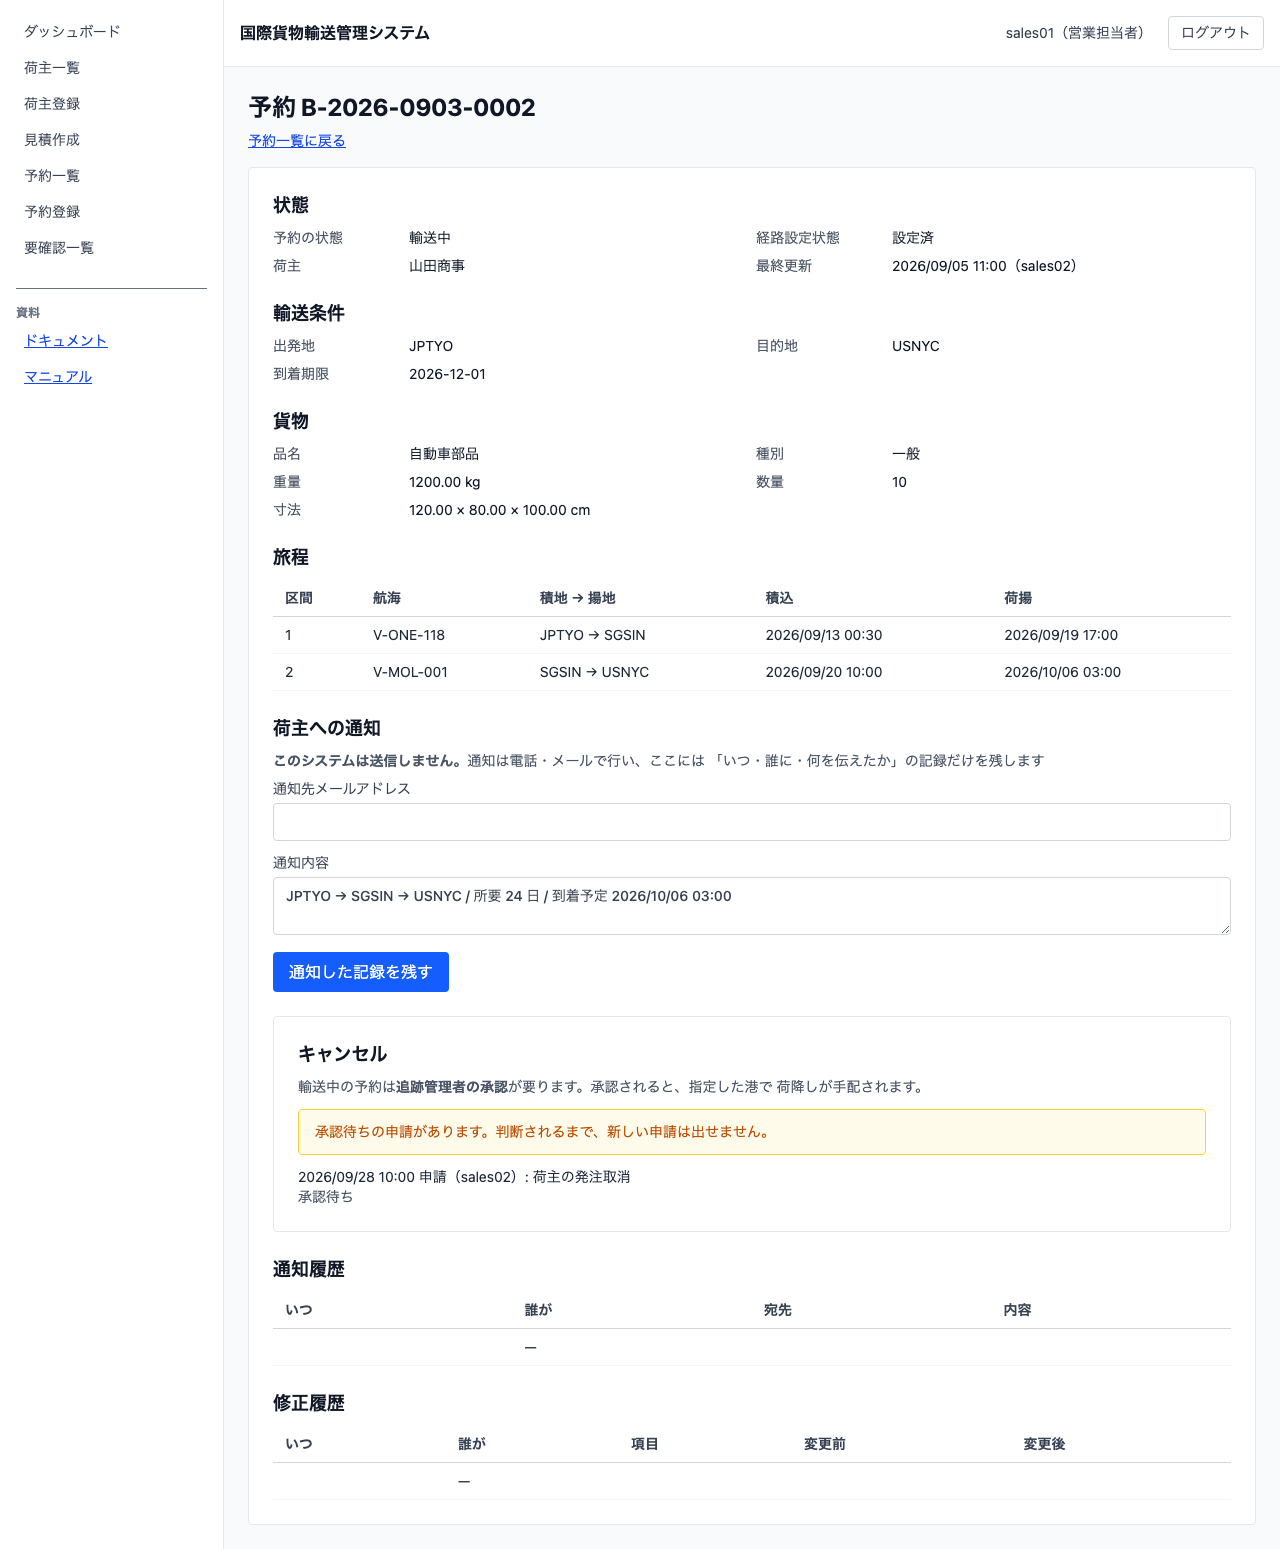
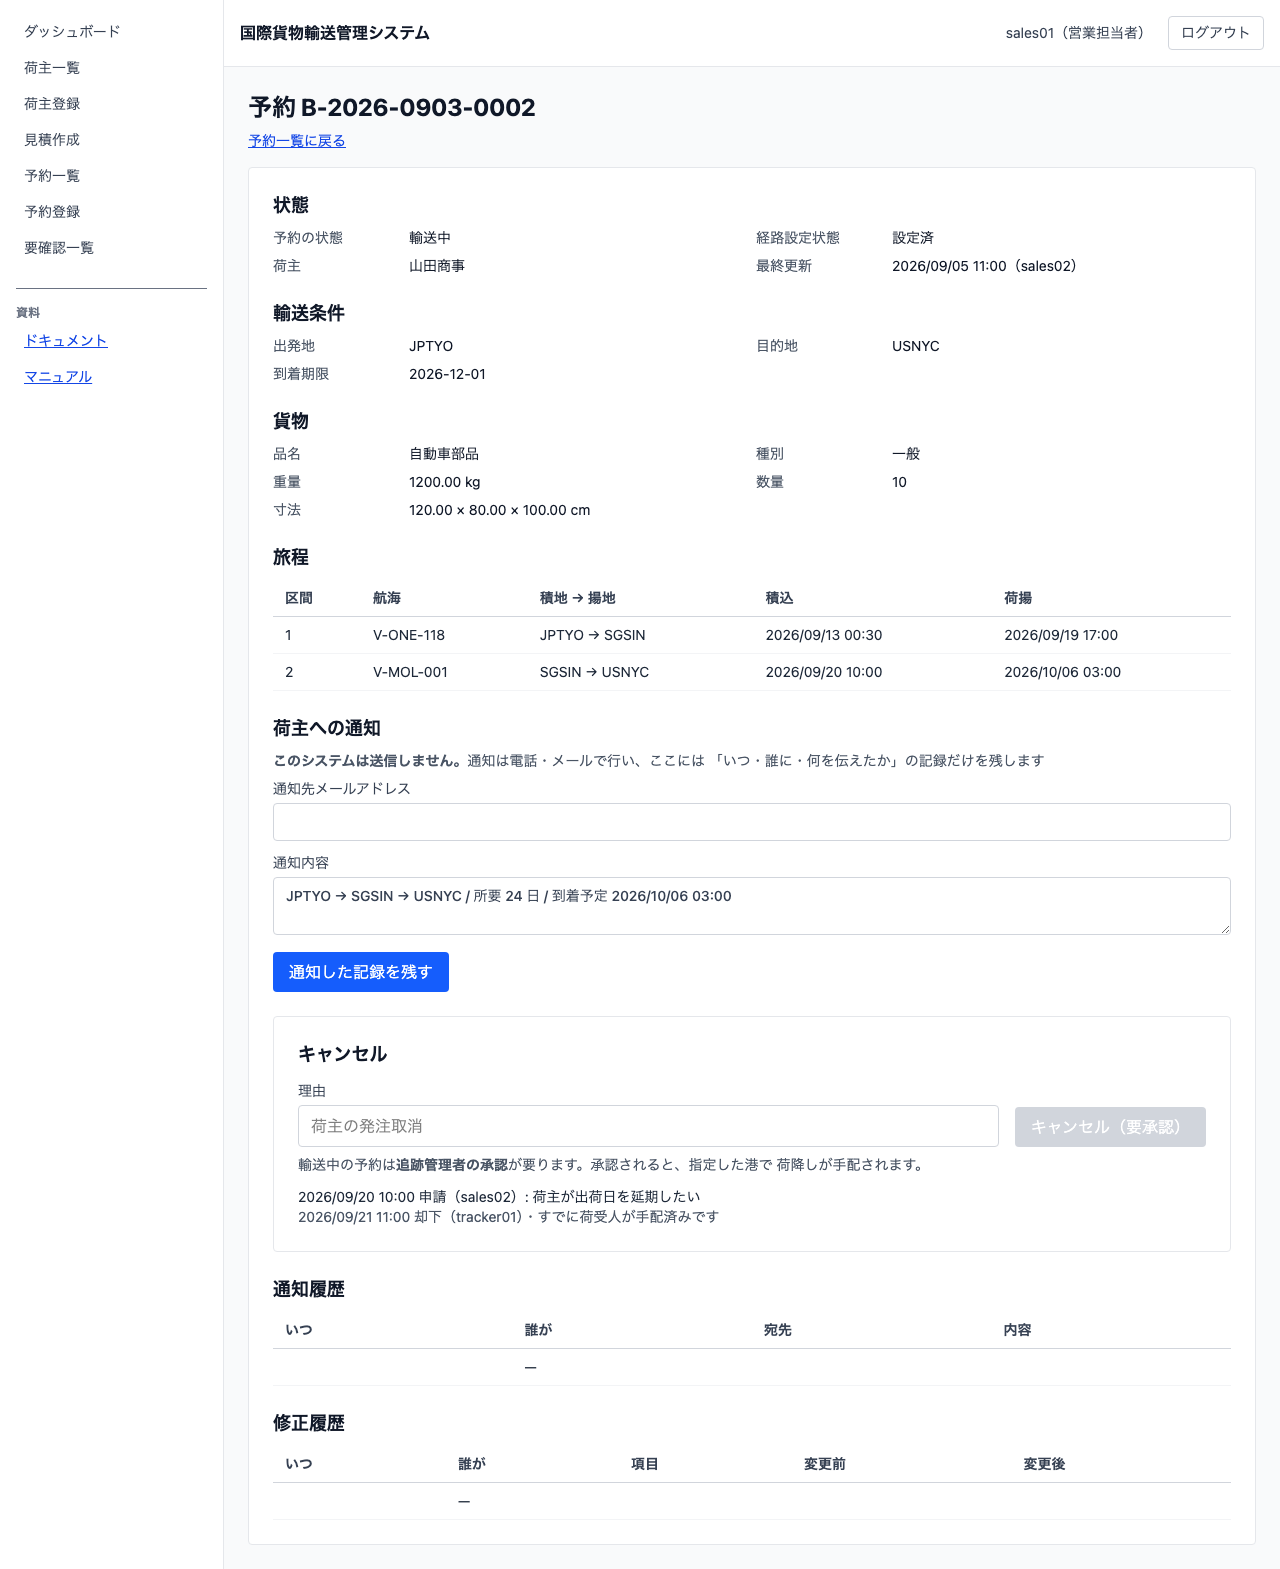
docs: レビュー（writer 視点）の高 2 件と中 5 件を直す（IT15 クローズ）
**S22 のキャプチャが本文の説明対象を写していなかった**（高）。承認待ちの状態で
撮っていたため申請の欄そのものが隠れ、本文が説明する「理由」と
`[キャンセル（要承認）]` が 1 つも写らない。履歴を判断済みにして、入口と履歴を
同じ 1 枚に収めた。

**README が事実と違っていた**（高）。`dev:backend` は `bootRun` だけで、依存
ミドルウェアは起こさない。書いたとおりに叩くと起動に失敗する。`docker compose
up -d` を先に踏む形に直した。

中 5 件——実際に出ない文言（正しくは「状態 引取済 の予約は…」）、候補が 1 件も
写っていない S23 のキャプチャ、同じ予約番号なのに品名が違う 2 枚、`cargo-rates.yml`
が指す 17 章に陸揚げ実費の記述が無いこと、19 章に「すでに請求書があるときは調整で
入れる」の予告が無いこと。

品質ゲート: キャプチャ 2 枚を生成 spec で撮り直し・`okf:check` ERROR 0

Claude-Session: https://claude.ai/code/session_01XfkmHiuViyEJ2eXPS6gjpS

diff --git a/apps/cargo-tracker/frontend/e2e/manual-capture.spec.ts b/apps/cargo-tracker/frontend/e2e/manual-capture.spec.ts
@@ -1538,18 +1538,22 @@ test.describe('マニュアルの画面キャプチャ', () => {
         contentType: 'application/json',
         body: JSON.stringify({
           items: [{
-            requestId: 'cr-1',
+            requestId: 'cr-0',
             bookingId: SAMPLE_ROUTED_BOOKING.bookingId,
             bookingNumber: SAMPLE_ROUTED_BOOKING.bookingNumber,
-            productName: '精密機器',
-            reason: '荷主の発注取消',
+            // **同じ予約の話として読めるように、予約の品名と揃える。**
+            productName: '自動車部品',
+            reason: '荷主が出荷日を延期したい',
             requestedBy: 'sales02',
-            requestedAt: '2026-09-28T01:00:00Z',
-            decision: null,
-            decisionLabel: null,
-            decidedBy: null,
-            decidedAt: null,
-            decisionReason: null,
+            requestedAt: '2026-09-20T01:00:00Z',
+            // **判断済みにする。** 承認待ちだと申請の欄そのものが隠れ、本文が
+            // 説明する「理由」と `[キャンセル（要承認）]` が 1 つも写らない
+            // （IT15 のレビュー 高）。履歴と入口を同じ 1 枚に収める。
+            decision: 'REJECTED',
+            decisionLabel: '却下',
+            decidedBy: 'tracker01',
+            decidedAt: '2026-09-21T02:00:00Z',
+            decisionReason: 'すでに荷受人が手配済みです',
             dischargeUnLocode: null,
           }],
         }),
@@ -1560,11 +1564,13 @@ test.describe('マニュアルの画面キャプチャ', () => {
 
     await expect(page.getByRole('heading', { name: 'キャンセル' })).toBeVisible();
     await expect(page.getByText(/輸送中の予約は/)).toBeVisible();
-    await expect(page.getByText('承認待ちの申請があります。判断されるまで、新しい申請は出せません。'))
-      .toBeVisible();
-    await expect(page.getByText(/荷主の発注取消/)).toBeVisible();
-    await expect(page.getByTestId('cancellation-history-cr-1'))
-      .toContainText('承認待ち');
+    // **本文が説明する要素ごとに確かめる。** 理由欄とボタンが写らないと、
+    // 「理由は必須」「輸送中は要承認」を画像が支えない。
+    await expect(page.getByLabel('理由')).toBeVisible();
+    await expect(page.getByRole('button', { name: 'キャンセル（要承認）' })).toBeVisible();
+    // 履歴（誰が・いつ・なぜ・どう判断したか）も同じ 1 枚に収める。
+    await expect(page.getByTestId('cancellation-history-cr-0'))
+      .toContainText('すでに荷受人が手配済みです');
     await page.screenshot({ path: `${OUT}/19-S22-cancellation-panel.png`, fullPage: true });
   });
 
@@ -1580,7 +1586,8 @@ test.describe('マニュアルの画面キャプチャ', () => {
             requestId: 'cr-1',
             bookingId: SAMPLE_ROUTED_BOOKING.bookingId,
             bookingNumber: SAMPLE_ROUTED_BOOKING.bookingNumber,
-            productName: '精密機器',
+            // **同じ予約の話として読めるように、予約の品名と揃える。**
+            productName: '自動車部品',
             reason: '荷主の発注取消',
             requestedBy: 'sales02',
             requestedAt: '2026-09-28T01:00:00Z',
@@ -1612,6 +1619,10 @@ test.describe('マニュアルの画面キャプチャ', () => {
     await expect(page.getByLabel('陸揚げ地')).toBeVisible();
     await expect(page.getByText('現在地または残りの寄港地から選びます。')).toBeVisible();
     await expect(page.getByRole('option', { name: 'SGSIN（現在地）' })).toBeAttached();
+    // **選んだ状態で撮る。** 「選んでください」のままだと、本文がいちばん
+    // 説明している陸揚げ地の候補が 1 件も写らない（IT15 のレビュー 中）。
+    await page.getByLabel('陸揚げ地').selectOption('USNYC');
+    await page.getByLabel('理由', { exact: true }).fill('荷主の指定倉庫が近い');
     await page.screenshot({ path: `${OUT}/19-S23-cancellation-worklist.png`, fullPage: true });
   });
 

diff --git a/docs/review/cargo-tracker/index.md b/docs/review/cargo-tracker/index.md
@@ -17,7 +17,7 @@ cargo-tracker プロジェクトのレビュードキュメントです。
 | [IT6 実装レビュー（2026-09-06）](IT6実装_review_20260906.md) | IT6 の実装 38 コミット・約 125 ファイル | 並列 5 視点をクローズの最初に起動（**約 40 分後に返着**。その間に「返らない」と誤判断した経緯も記録）。高 7 件（うち 2 件は 2 視点が独立に同じものを指摘）・中 9 件に対応。**戻す理由の読み口が無い**・**検査が配線を踏んでいない**は自前では気づけなかった |
 | [IT5 実装レビュー（2026-09-05）](IT5実装_review_20260905.md) | IT5 の実装 15 コミット・125 ファイル | 並列 5 視点を**クローズの最初に起動**（約 4〜5 分で返着）。提出 41 件・重複を除き 35 件（高 7 / 中 19 / 低 9）。**受入基準を破る実装（候補の打ち切りが並べる前）が全緑のまま残っていた**のを 4 視点が指摘 |
 | [IT10 実装レビュー（2026-09-09）](IT10実装_review_20260909.md) | IT10 の実装 30 コミット・約 160 ファイル | 並列 5 視点を**クローズの最初に起動**（2 分以内に全通返着・Try T7 の出力形指定が効いた）。高 12 / 中 26。**高はすべてクローズ前に修正**、中 6 件を同じ変更で修正、20 件を IT11 へ。5 件が複数視点から独立に指摘された |
-| [IT15 実装レビュー（2026-09-14）](IT15実装_review_20260914.md) | IT15 の実装 23 コミット・約 140 ファイル | 並列 5 視点を**クローズの最初に起動**（4 通が 2〜3 分、writer は長さ制限で切れ再取得）。高 11 / 中 20。**高はすべてクローズ前に修正**、中 7 件を同じ変更で修正、13 件を IT16・Release 3.0 へ。**「記録はあるのに読み口が無い」形が高で 4 件**——承認した陸揚げ地が荷役に届かない・却下が営業に届かない・陸揚げ待ちがどの画面にも出ない・承認待ちの件数に検査が無い。**層が全部緑でクラスタ E2E も緑のまま**残っていた。認可の穴 1 件（承認待ち一覧が営業・経路設計・経理にも開く）は、同じ形の実測がコメントに残る場所での再発 |
+| [IT15 実装レビュー（2026-09-14）](IT15実装_review_20260914.md) | IT15 の実装 23 コミット・約 140 ファイル | 並列 5 視点を**クローズの最初に起動**（4 通が 2〜3 分、writer は長さ制限で切れ再取得）。高 13 / 中 25。**高はすべてクローズ前に修正**、中 12 件を同じ変更で修正、13 件を IT16・Release 3.0 へ。**「記録はあるのに読み口が無い」形が高で 4 件**——承認した陸揚げ地が荷役に届かない・却下が営業に届かない・陸揚げ待ちがどの画面にも出ない・承認待ちの件数に検査が無い。**層が全部緑でクラスタ E2E も緑のまま**残っていた。認可の穴 1 件（承認待ち一覧が営業・経路設計・経理にも開く）は、同じ形の実測がコメントに残る場所での再発 |
 | [IT11 実装レビュー（2026-09-09）](IT11実装_review_20260909.md) | IT11 の実装 8 コミット・約 110 ファイル | 並列 5 視点を**クローズの最初に起動**（4 通が 2 分以内、**user 視点は再送 2 回で 1 時間後**）。高 12 / 中 17。**高はすべてクローズ前に修正**、中 11 件を同じ変更で修正、6 件を IT12 へ。**「片方にだけ書いた」形の欠陥が 3 件**（預かった荷役の後段・誤配の印を降ろす経路・取り消しで預かりを外す）。**user 視点は 1 時間後に返り、高 3 件を持っていた**——うち 1 件は受入基準そのもの（US28 §6 の後半） |
 | [IT12 実装レビュー（2026-09-10）](IT12実装_review_20260910.md) | IT12 の実装 46 コミット・約 213 ファイル | 並列 5 視点を起動したが 48 分無応答で逐次フォールバックへ切り替え、**その後 5 通すべてが届いた**（切れた 4 通は続きを個別に求めた）。**遅着分に実欠陥が 5 件**あり、待たずに確定させると IT13 で別の症状として現れていた。高 8 / 中 11 / 低 9。**高と中はすべてクローズ前に修正**——留置から出ると営業日数が 0・S02 の督促リンクが全件の一覧に着く・引取待ちが「通関の状態は分かりません」と言い続けた・**再留置が誰にも見えない**・**不可でも税関保留を解決していた**・申告日時がブラウザの時間帯・決着済でも更新フォームが出る・**宣言した安全網が実在しない 2 件** |
 | [IT13 実装レビュー（2026-09-11）](IT13実装_review_20260911.md) | IT13 の実装 10 コミット・約 175 ファイル | 並列 5 視点を**クローズの最初に起動**（5 通とも 3〜6 分で返着）。高 18 / 中 27 / 低 19。**いちばん重い指摘は「検査そのものが走っていなかった」**——Try T8 で置いた規約検査 3 本が、入力宣言のパス誤りで 1 件も実行されておらず、その陰で受入基準表のクラス名ずれが実際にすり抜けていた。ほかに**経理宛の要確認に読み口が無い**（記録だけして誰にも見えない）・**調整の根拠リンクが経理に 403**・**免税を税額から逆算**・**ADR-0015 の理由が実装で不成立**。高はすべてクローズ前に修正し、IT14 へ 12 件を引き継ぐ |

diff --git a/docs/review/cargo-tracker/IT15実装_review_20260914.md b/docs/review/cargo-tracker/IT15実装_review_20260914.md
@@ -20,7 +20,7 @@ IT15（US30 輸送中の予約キャンセルを承認する）の実装。`8be5
 
 加えて**認可の穴が 1 件**（承認待ち一覧が営業・経路設計・経理にも開いていた）。コード内のコメントが同じ形の実測（「経路設計者の作業一覧が営業にも見えた」）を残していたにもかかわらず再発しており、名簿方式の検査が「載っていないもの」を通したためである。
 
-**高 11 件はすべてクローズ前に修正した。** 中 7 件を同じ変更で修正し、残る中はイテレーション完了報告書に送った。
+**高 13 件はすべてクローズ前に修正した。** 中 12 件を同じ変更で修正し、残る中はイテレーション完了報告書に送った。
 
 ## 改善提案（重要度順）
 
@@ -39,6 +39,8 @@ IT15（US30 輸送中の予約キャンセルを承認する）の実装。`8be5
 | 9 | 正典「有効な請求書があれば `CANCELLATION_FEE` 行を積む」と実装（要確認へ回す）が食い違う | `domain-model.md` / `BillingReactionHandler` | architect | **正典を直した**。実装が正——発行・入金が進んでいることがあり、自動で明細を足すと金額が黙って変わる |
 | 10 | 料率 5%・10%（経路提案中・経路通知済・予約確定）は実際には請求書にならない。マニュアルは 6 段階を約束していた | `BillingCargoProjection` / マニュアル 17・19 章 | user・architect | **文書を直し、実装は Release 3.0 へ**。取りこぼしはしない（要確認に落ちる）が手作業になる旨を正典とマニュアルに明記 |
 | 11 | S02 の承認待ち件数（§4 の落とし先）に判別するテストが 1 件も無い。件数ブロックを丸ごと削っても全緑 | `DashboardPage.test.tsx` | tester | **修正**。追跡管理者に出て営業に出ないこと・件数から一覧へ行けることを固定 |
+| 12 | S22 のキャプチャが承認待ち状態で撮られ、本文が説明する理由欄と `[キャンセル（要承認）]` が 1 つも写っていない | `19-S22-cancellation-panel.png` | technical-writer | **修正**。履歴を判断済みにして、入口と履歴を同じ 1 枚に収めた |
+| 13 | README の「`dev:backend` が依存ミドルウェアを起こす」が事実と違う（`bootRun` だけ） | `README.md` | technical-writer | **修正**。`docker compose up -d` を先に踏む形に直した |
 
 ### 中（同じ変更で修正したもの）
 
@@ -51,6 +53,11 @@ IT15（US30 輸送中の予約キャンセルを承認する）の実装。`8be5
 | 16 | US30 の新経路に Gateway の認可テストが無い | `gatewayms/src/test` | architect |
 | 17 | マニュアル 19 章の明細文言が実装と違う（実際は「キャンセル料（輸送中・50%）」） | マニュアル 17・19 章 | （クラスタ E2E で発見） |
 | 18 | 17 章の請求詳細キャプチャが 1 枚も撮れていなかった（見本に `payments` が無く画面が落ちる） | `manual-capture.spec.ts` | （キャプチャ再生成で発見） |
+| 18-2 | マニュアル 19 章の「この予約はキャンセルできません」が実文言でない（正: 状態 ○○ の予約は…） | 19 章 | technical-writer |
+| 18-3 | S23 のキャプチャの陸揚げ地が候補 0 件で、承認手順の中核が写らない | `19-S23-...png` | technical-writer |
+| 18-4 | 同じ予約番号の 2 枚で品名が違う（自動車部品／精密機器） | 19 章のキャプチャ | technical-writer |
+| 18-5 | `cargo-rates.yml` が「陸揚げ実費は 17 章」と指すが 17 章に記述が無い | `cargo-rates.yml` | technical-writer |
+| 18-6 | 19 章に「すでに請求書がある場合は調整で入れる」の予告が無い | 19 章 | technical-writer |
 
 ### 中（IT16 / Release 3.0 へ送るもの）
 

diff --git a/docs/manual/19-キャンセルを申請して承認する.md b/docs/manual/19-キャンセルを申請して承認する.md
@@ -34,6 +34,8 @@ generated: { by: claude-code/claude-opus-5, at: 2026-09-14T00:00:00Z }
 
 ![キャンセルの申請](assets/19-S22-cancellation-panel.png)
 
+画像の下半分が**履歴**です（この例では前回の申請が却下されています）。
+
 判断されるとダッシュボードに出ます。**却下されたときは理由つきで出ます**——承認されたときは予約が「キャンセル」になるので、予約一覧で分かります。
 
 **承認待ちのあいだは、新しい申請を出せません。** 同じ予約に判断待ちが 2 件並ぶと、どちらに答えたのかが分からなくなります。取り下げたいときは、追跡管理者に却下してもらってください。
@@ -91,6 +93,10 @@ generated: { by: claude-code/claude-opus-5, at: 2026-09-14T00:00:00Z }
 
 **料率が 0% のときは請求書を作りません**（仮受付）。0 円の請求書は、経理に「請求する相手」として見えてしまいます。
 
+**すでに請求書がある予約では、キャンセル料は自動で足しません。** 二重に請求しないためです。経理の**04 要確認一覧**に「キャンセル料は調整で入れてください」と出ます。
+
+**輸送中の陸揚げ実費（途中の港で降ろす費用）も自動では入りません。** 経理が調整行として入れます（17 章）。
+
 **自動で請求書ができるのは、追跡番号を発行したあとのキャンセルだけです。** それより前は料率が 0% ではありませんが、基本料金の材料が請求側に届いていないため、経理の**04 要確認一覧**に落ちます（取りこぼしはしませんが、請求は手作業になります）。
 
 ## うまくいかないとき
@@ -99,9 +105,11 @@ generated: { by: claude-code/claude-opus-5, at: 2026-09-14T00:00:00Z }
 
 同じ予約に判断待ちの申請が残っています。追跡管理者に承認か却下をしてもらってください。
 
-### 「この予約はキャンセルできません」
+### 「状態 引取済 の予約はキャンセルできません」
 
 引取が済んだ予約や、すでにキャンセルされた予約は止められません。予約詳細の状態を確かめてください。
+
+**承認のときにも同じメッセージが出ることがあります**（申請したあとに引き取られた場合）。そのときは「（申請を却下してください）」が続きます——却下すれば申請は決着します。
 
 ### 陸揚げ地の選択肢が現在地しか出ない
 

diff --git a/docs/manual/17-請求を組み立てる.md b/docs/manual/17-請求を組み立てる.md
@@ -206,6 +206,8 @@ generated: { by: claude-code/claude-opus-5, at: 2026-09-13T02:29:13Z }
 
 算出の基準は「運ぶはずだった基本料金」です。**法人割引は当たります**（契約は生きているためです）。消費税の扱いは輸送料金と同じです。
 
+**輸送中の陸揚げ実費（途中の港で降ろす費用）は自動では入りません。** 港・船社・貨物で変わるため計算できません。**「料金を調整する」の手順で、経理が調整行として入れてください。**
+
 **仮受付のキャンセルでは請求書ができません**（料率が 0% です）。0 円の請求書は、経理に「請求する相手」として見えてしまいます。
 
 **自動で請求書ができるのは、追跡番号を発行したあとのキャンセルだけです。** それより前（経路提案中・経路通知済・予約確定）は料率が 0% ではありませんが、基本料金の材料が請求側に届いていないため、**04 要確認一覧**に「写しが無いのでキャンセル料を算出できません」と出ます。取りこぼしはしませんが、請求は「料金を調整する」の手順で手作業になります。
